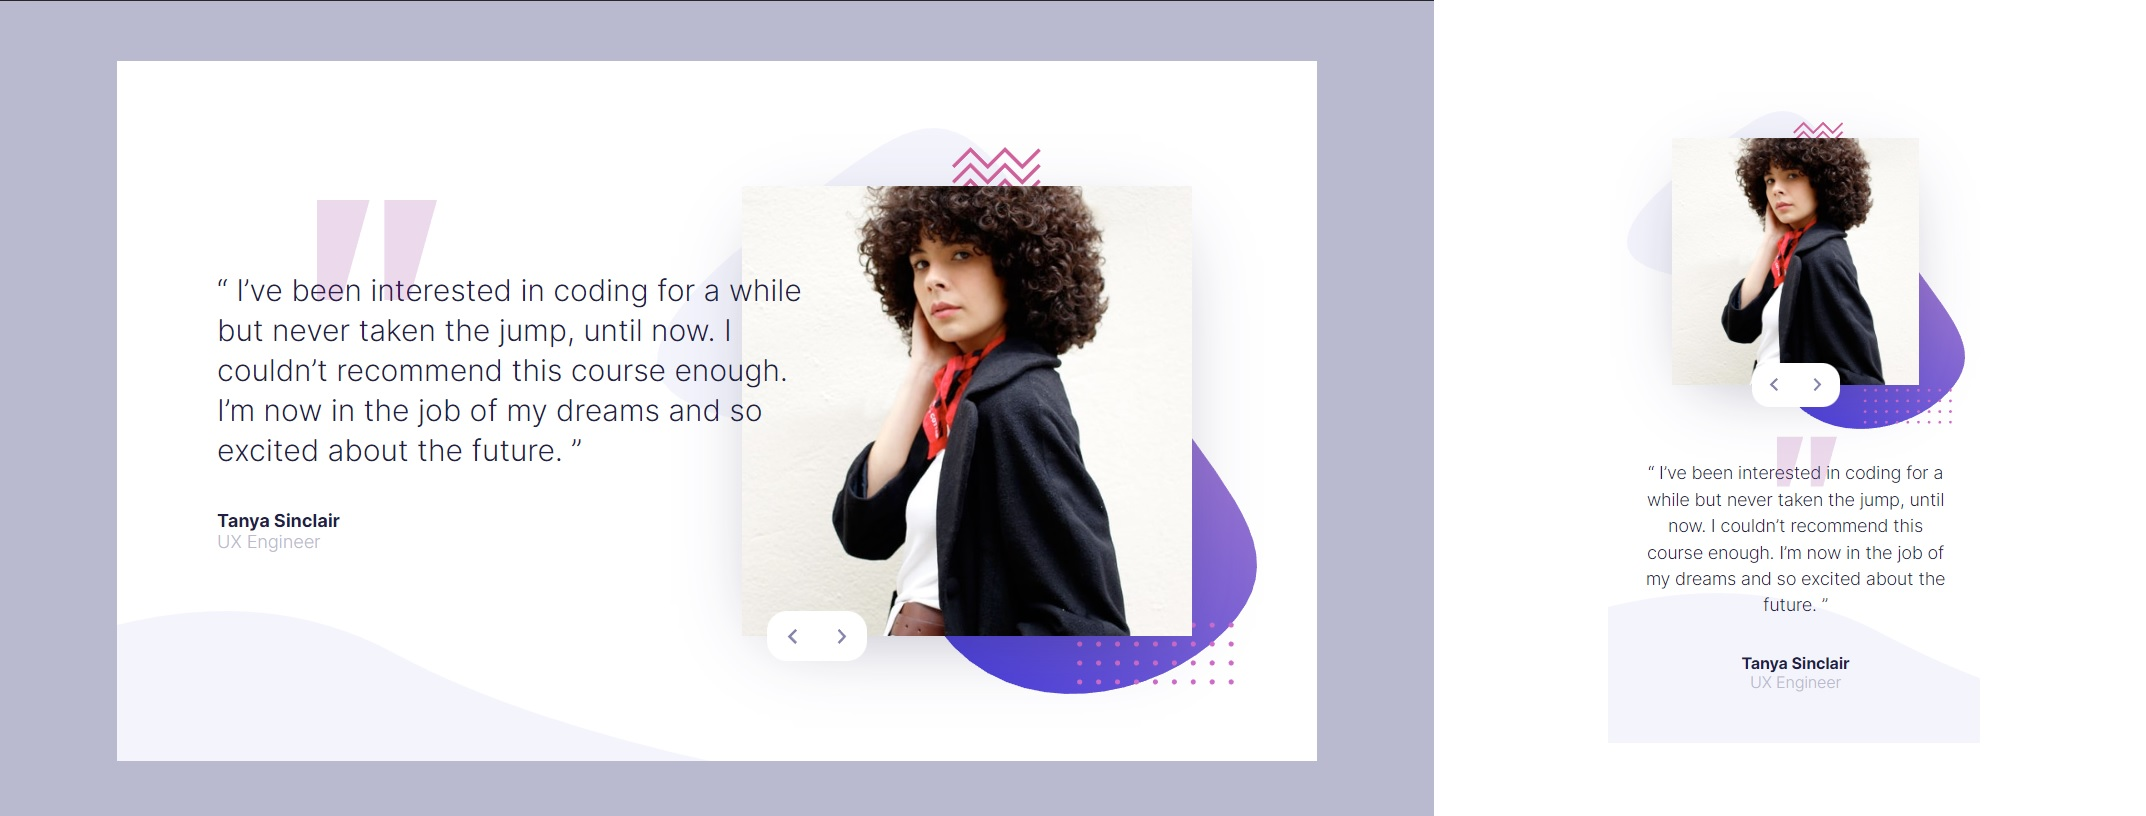
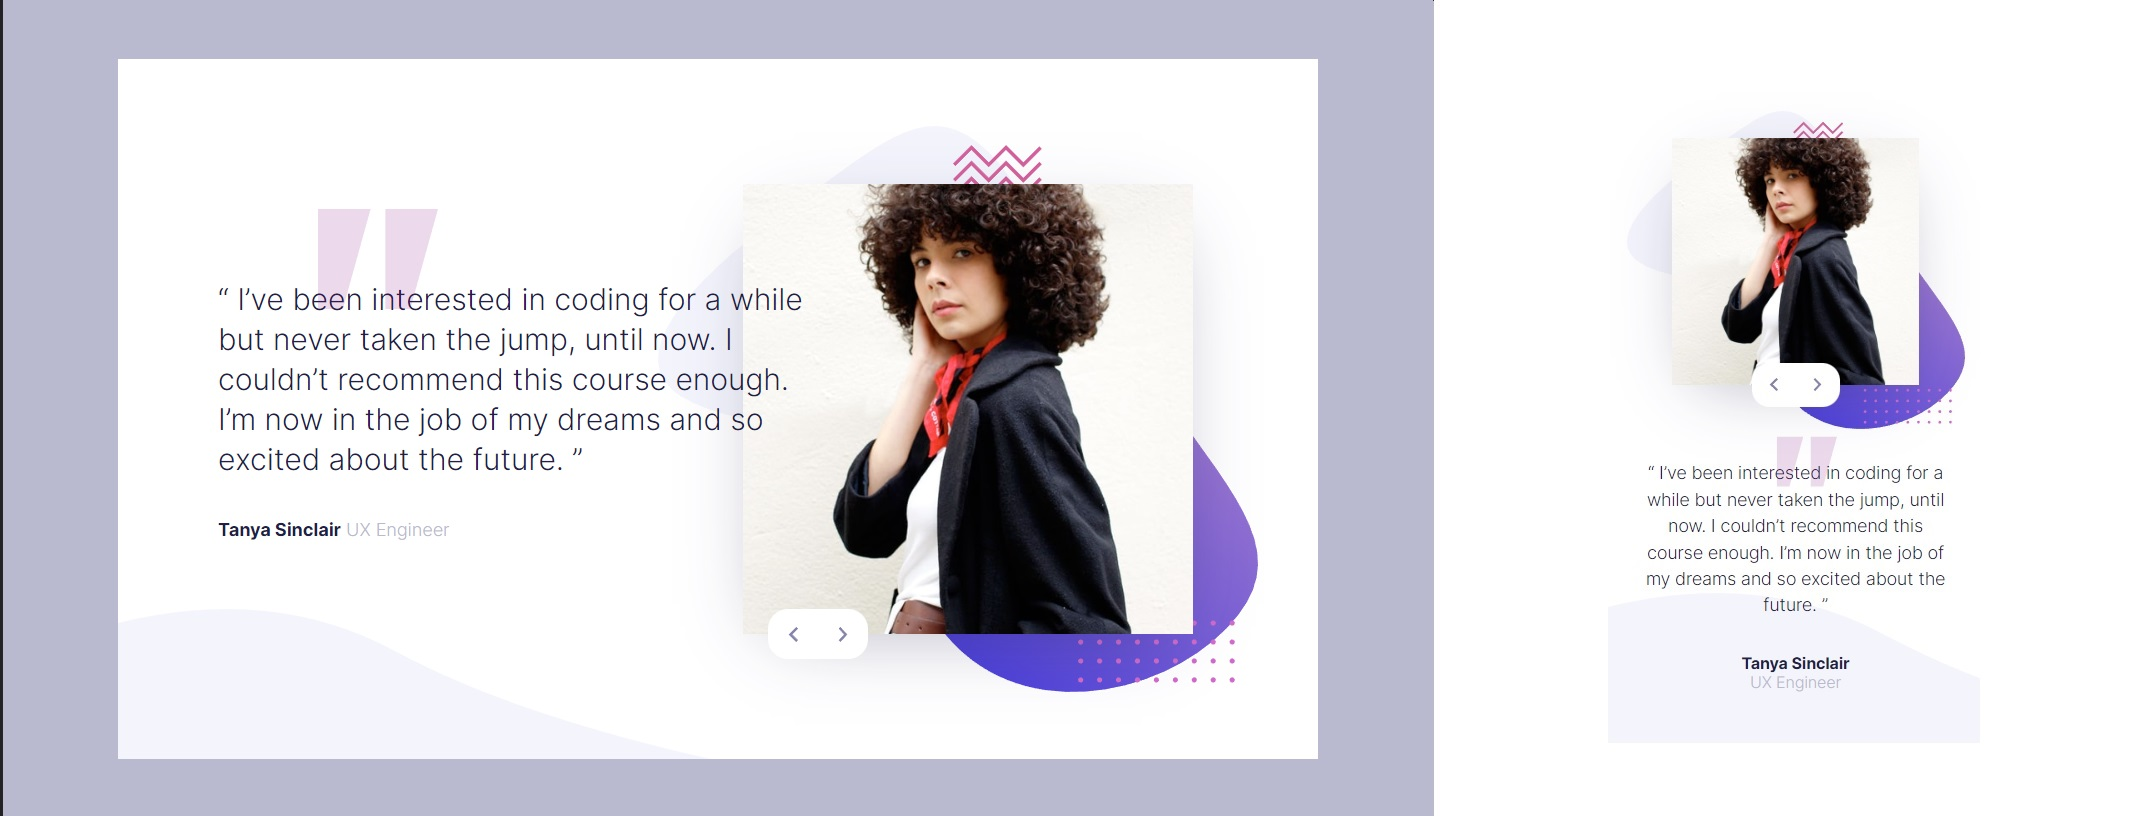
Update readme

diff --git a/Testimony challenge/style.css b/Testimony challenge/style.css
@@ -51,20 +51,19 @@ html {
   font-size: 62.5%;
   @media only screen and (max-width: 62.5em) {
     font-size: 55%;
-  } 
+  }
 }
 
 img,
 svg,
 picture {
-
   display: block;
 }
 
 body {
   box-sizing: border-box;
-  font-family: 'Inter', sans-serif;
-  display:flex;
+  font-family: "Inter", sans-serif;
+  display: flex;
   justify-content: center;
   align-items: center;
   height: 100vh;
@@ -95,7 +94,7 @@ p {
   @media only screen and (max-width: 50em) {
     font-size: 2rem;
     line-height: 3rem;
-  }  
+  }
 }
 
 .testimonial__author {
@@ -108,31 +107,26 @@ p {
 
 .carousel {
   padding-inline: 10rem;
-  max-width: 120rem ;
+  max-width: 120rem;
   height: 70rem;
   background-color: white;
   position: relative;
   margin: 5%;
-  
+
   display: grid;
   grid-template-columns: 1fr 1fr;
   justify-content: center;
   align-content: center;
   align-items: center;
 
-
   background-image: url(images/pattern-bg.svg);
   background-repeat: no-repeat;
-  background-position:  90% 50%;
-  background-size: 50% ;
-
+  background-position: 90% 50%;
+  background-size: 50%;
 
   @media only screen and (max-width: 62.5em) {
     padding-inline: 5%;
-    
-  } 
-
-  
+  }
 
   @media only screen and (max-width: 50em) {
     background-position: 50% 10%;
@@ -140,16 +134,15 @@ p {
     grid-template-rows: 1fr 1fr;
     padding-inline: 0%;
     margin: 0%;
-  
-  } 
+  }
 
   @media only screen and (max-width: 32em) {
     height: 100vh;
-    background-size: 80% ;
-  } 
+    background-size: 80%;
+  }
   @media only screen and (max-width: 32em) {
-    background-size: 90% ;
-  } 
+    background-size: 90%;
+  }
 }
 
 .testimonials {
@@ -174,24 +167,22 @@ p {
 
 .testimonial__details {
   @media only screen and (max-width: 50em) {
-
     text-align: center;
   }
 }
 
 .testimonial__author {
-  display: block;
+  @media only screen and (max-width: 50em) {
+    display: block;
+  }
 }
 
-
 .profil {
-
   width: 100%;
   position: relative;
   @media only screen and (max-width: 50em) {
     grid-row: 1/2;
     margin-top: 10%;
-    
   }
 }
 
@@ -200,9 +191,8 @@ p {
   height: 100%;
 }
 
-
 .profil-img {
-  box-shadow: 0 2rem 8rem -3rem hsla(240, 38%, 20%, 0.4) ;
+  box-shadow: 0 2rem 8rem -3rem hsla(240, 38%, 20%, 0.4);
   z-index: 10;
   max-width: 90%;
   margin-inline: auto;
@@ -212,22 +202,20 @@ p {
   }
 }
 
-
 /*///////////////////////////////////////////*/
 /* Buttons*/
 
 .btns {
-display:flex;
-justify-content: center;
-align-items: center;
-position: absolute;
-bottom: -2.5rem;
-left: 5rem ;
-@media only screen and (max-width: 50em) {
-  
-left: 50% ;
-transform: translateX(-50%);
-} 
+  display: flex;
+  justify-content: center;
+  align-items: center;
+  position: absolute;
+  bottom: -2.5rem;
+  left: 5rem;
+  @media only screen and (max-width: 50em) {
+    left: 50%;
+    transform: translateX(-50%);
+  }
 }
 
 .btn {
@@ -238,31 +226,29 @@ transform: translateX(-50%);
   width: 5rem;
   background-color: white;
   cursor: pointer;
-  
-  display:flex;
+
+  display: flex;
   justify-content: center;
   align-items: center;
 }
 
 .arrow_icon {
   height: 30%;
-  
 }
 
 .btn-previous {
-  border-top-left-radius: 2rem ;
+  border-top-left-radius: 2rem;
   border-bottom-left-radius: 2rem;
 }
 .btn-next {
-  border-top-right-radius: 2rem ;
+  border-top-right-radius: 2rem;
   border-bottom-right-radius: 2rem;
 }
-
 
 /*///////////////////////////////////////////*/
 /* Decoration */
 
-.pattern-quote{
+.pattern-quote {
   fill: purple;
   position: absolute;
   top: -7rem;
@@ -282,8 +268,6 @@ transform: translateX(-50%);
   fill: red;
   width: 100%;
 }
-
-
 
 /*///////////////////////////////////////////*/
 /* Animation */
